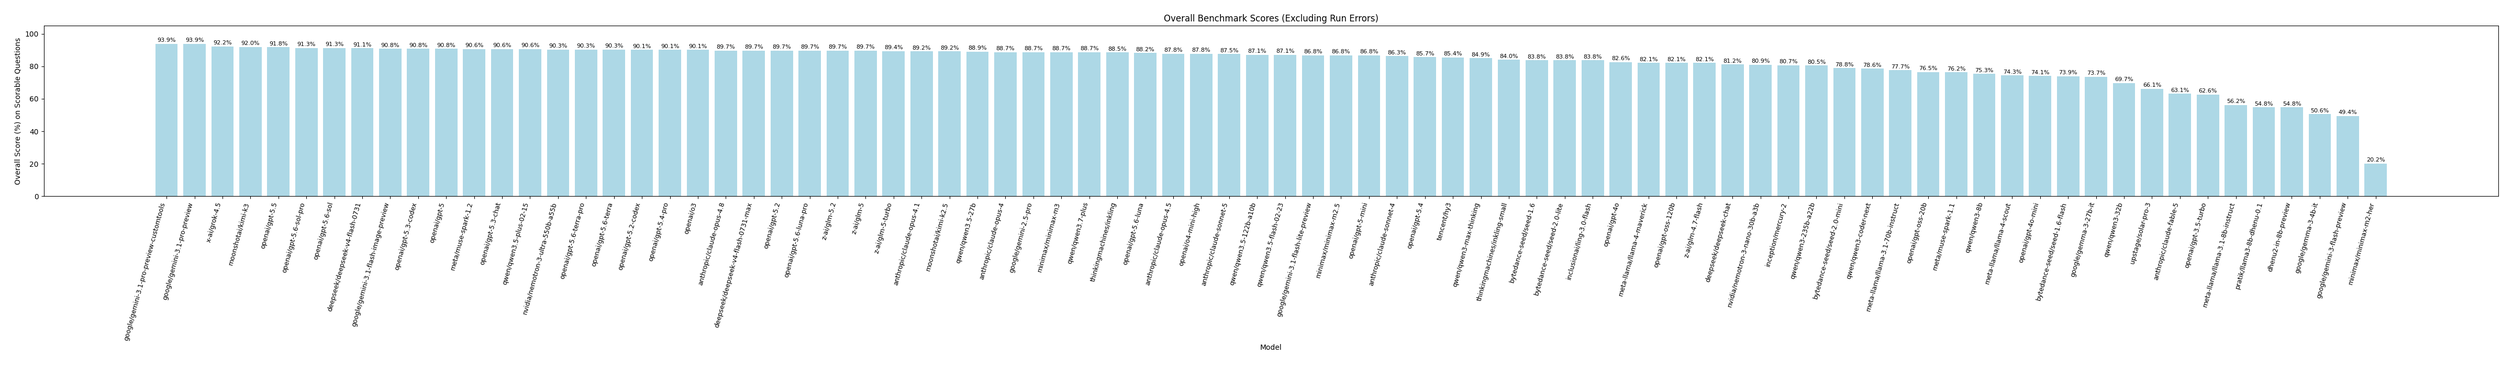
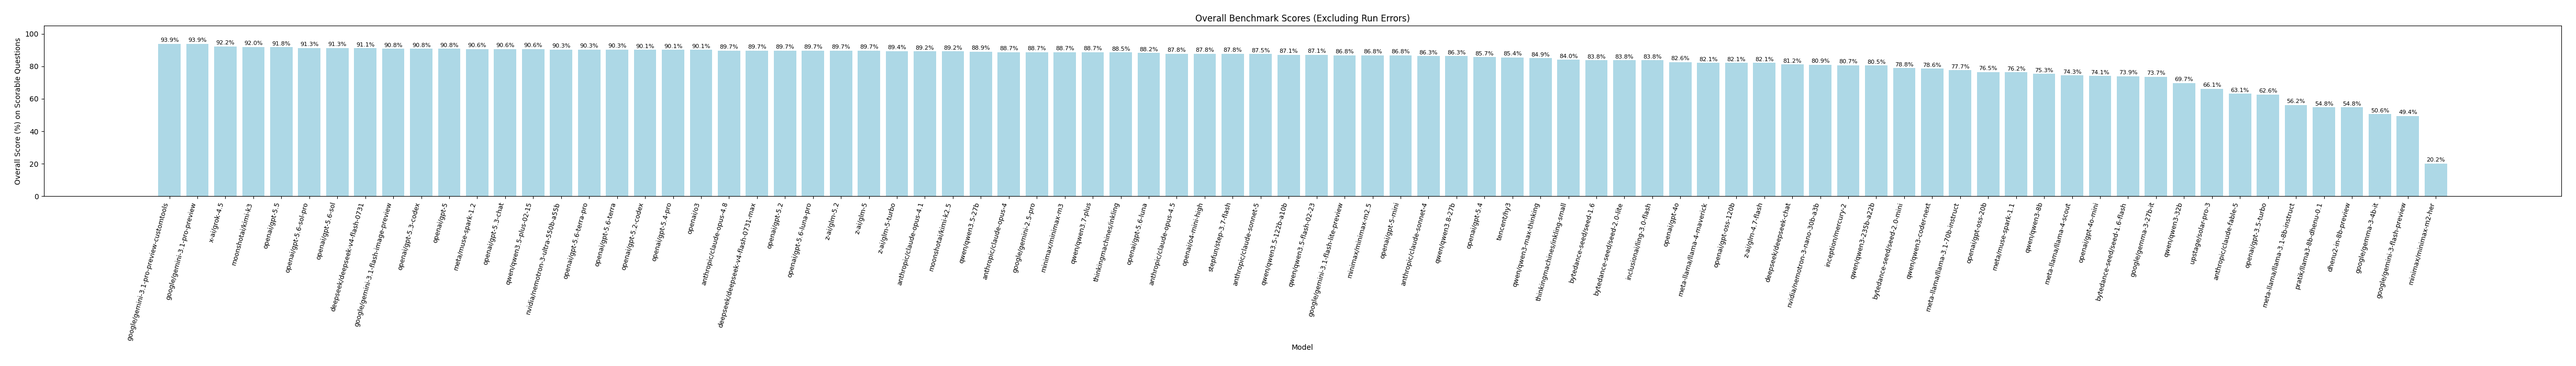
Add Step 3.7 Flash and Qwen3.8 27B benchmark results
Step 3.7 Flash scores 87.76% at FP8; Qwen3.8-27B scores 86.35% at BF16. Both are vision models.

Changed region(s): [[0.0625, 0.09, 0.9375, 0.87], [0.4688, 0.03, 0.5625, 0.06], [0.0625, 0.69, 0.0938, 0.72]]

diff --git a/config.py b/config.py
@@ -121,6 +121,28 @@ MODELS_TO_RUN = [
     # ========== LATEST SOTA (August 2026) ==========
 
     {
+        "id": "stepfun/step-3.7-flash",
+        "provider": "openai_compatible",
+        "api_key_env": "OPENROUTER_API_KEY",
+        "base_url": "https://openrouter.ai/api/v1",
+        "model_name_api": "stepfun/step-3.7-flash",
+        # Open-weight multimodal MoE (198B total / ~11B active). Vision.
+        # OpenRouter known quants are FP8 (StepFun/Novita); DeepInfra reports unknown.
+        "access": "open source",
+        "max_tokens": 4000,
+    },
+    {
+        "id": "qwen/qwen3.8-27b",
+        "provider": "openai_compatible",
+        "api_key_env": "OPENROUTER_API_KEY",
+        "base_url": "https://openrouter.ai/api/v1",
+        "model_name_api": "qwen/qwen3.8-27b",
+        # Open-weight dense multimodal (~27.8B). Vision.
+        # Routed to highest available precision (BF16 via AkashML).
+        "access": "open source",
+        "max_tokens": 4000,
+    },
+    {
         "id": "meta/muse-spark-1.2",
         "provider": "openai_compatible",
         "api_key_env": "OPENROUTER_API_KEY",

diff --git a/README.md b/README.md
@@ -21,39 +21,40 @@
 | x-ai/grok-4.5                             |         92.24% | Proprietary | 2026-07-09  |    $6.0000     |                   92.0% |           94.1% |         54.0% |      62.0% |      76.0% |               92.9% |           90.3% |          96.2% |                  88.6% | (392/425)
 | moonshotai/kimi-k3                        |         92.00% | Open Source | 2026-07-16  |    $15.0000    |                   96.0% |           92.7% |         62.0% |      66.0% |      80.0% |               91.8% |           90.3% |          92.5% |                  91.4% | (391/425)
 | openai/gpt-5.5                            |         91.76% | Proprietary | 2026-07-09  |    $30.0000    |                   92.0% |           91.2% |         58.0% |      60.0% |      74.0% |               95.3% |           91.9% |          95.0% |                  86.7% | (390/425)
-| openai/gpt-5.6-sol-pro                    |         91.29% | Proprietary | 2026-07-09  |    $30.0000    |                   96.0% |           92.7% |         66.0% |      62.0% |      70.0% |               94.1% |           87.1% |          93.8% |                  87.6% | (388/425)
-| openai/gpt-5.6-sol                        |         91.29% | Proprietary | 2026-07-09  |    $30.0000    |                   92.0% |           92.7% |         66.0% |      58.0% |      66.0% |               95.3% |           87.1% |          92.5% |                  88.6% | (388/425)
-| deepseek/deepseek-v4-flash-0731           |         91.06% | Open Source | 2026-08-01  |    $0.1800     |                   88.0% |           91.2% |      N/A      |    N/A     |    N/A     |               94.1% |           90.3% |          93.8% |                  87.6% | (387/425)
+| openai/gpt-5.6-sol-pro                    |         91.29% | Proprietary | 2026-07-09  |    $15.0000    |                   96.0% |           92.7% |         66.0% |      62.0% |      70.0% |               94.1% |           87.1% |          93.8% |                  87.6% | (388/425)
+| openai/gpt-5.6-sol                        |         91.29% | Proprietary | 2026-07-09  |    $15.0000    |                   92.0% |           92.7% |         66.0% |      58.0% |      66.0% |               95.3% |           87.1% |          92.5% |                  88.6% | (388/425)
+| deepseek/deepseek-v4-flash-0731           |         91.06% | Open Source | 2026-08-01  |    $0.2800     |                   88.0% |           91.2% |      N/A      |    N/A     |    N/A     |               94.1% |           90.3% |          93.8% |                  87.6% | (387/425)
 | google/gemini-3.1-flash-image-preview     |         90.82% | Proprietary | 2026-07-09  |    $3.0000     |                   92.0% |           89.7% |         68.0% |      64.0% |      90.0% |               92.9% |           90.3% |          92.5% |                  88.6% | (386/425)
 | openai/gpt-5.3-codex                      |         90.82% | Proprietary | 2026-07-09  |    $14.0000    |                   88.0% |           92.7% |         64.0% |      66.0% |      70.0% |               92.9% |           88.7% |          95.0% |                  86.7% | (386/425)
 | openai/gpt-5                              |         90.82% | Proprietary | 2026-07-10  |    $10.0000    |                   88.0% |           91.2% |         68.0% |      68.0% |      72.0% |               92.9% |           88.7% |          92.5% |                  89.5% | (386/425)
 | meta/muse-spark-1.2                       |         90.59% | Proprietary | 2026-08-06  |    $4.2500     |                   92.0% |           91.2% |         66.0% |      70.0% |      74.0% |               91.8% |           90.3% |          93.8% |                  86.7% | (385/425)
-| openai/gpt-5.3-chat                       |         90.59% | Proprietary | 2026-07-09  |    $14.0000    |                   88.0% |           92.7% |         64.0% |      56.0% |      56.0% |               94.1% |           88.7% |          91.2% |                  87.6% | (385/425)
+| openai/gpt-5.3-chat                       |         90.59% | Proprietary | 2026-07-09  |      N/A       |                   88.0% |           92.7% |         64.0% |      56.0% |      56.0% |               94.1% |           88.7% |          91.2% |                  87.6% | (385/425)
 | qwen/qwen3.5-plus-02-15                   |         90.59% | Open Source | 2026-07-09  |    $1.5600     |                   80.0% |           91.2% |         64.0% |      52.0% |      74.0% |               94.1% |           93.5% |          91.2% |                  87.6% | (385/425)
 | nvidia/nemotron-3-ultra-550b-a55b         |         90.35% | Open Source | 2026-07-09  |    $3.6000     |                   92.0% |           91.2% |      N/A      |    N/A     |    N/A     |               91.8% |           88.7% |          90.0% |                  89.5% | (384/425)
-| openai/gpt-5.6-terra-pro                  |         90.35% | Proprietary | 2026-07-09  |    $6.0000     |                   92.0% |           89.7% |         58.0% |      56.0% |      70.0% |               91.8% |           90.3% |          95.0% |                  85.7% | (384/425)
-| openai/gpt-5.6-terra                      |         90.35% | Proprietary | 2026-07-09  |    $6.0000     |                   84.0% |           94.1% |         56.0% |      62.0% |      68.0% |               92.9% |           91.9% |          92.5% |                  84.8% | (384/425)
+| openai/gpt-5.6-terra-pro                  |         90.35% | Proprietary | 2026-07-09  |    $12.0000    |                   92.0% |           89.7% |         58.0% |      56.0% |      70.0% |               91.8% |           90.3% |          95.0% |                  85.7% | (384/425)
+| openai/gpt-5.6-terra                      |         90.35% | Proprietary | 2026-07-09  |    $12.0000    |                   84.0% |           94.1% |         56.0% |      62.0% |      68.0% |               92.9% |           91.9% |          92.5% |                  84.8% | (384/425)
 | openai/gpt-5.2-codex                      |         90.12% | Proprietary | 2026-07-09  |    $14.0000    |                   92.0% |           92.7% |         62.0% |      52.0% |      68.0% |               92.9% |           87.1% |          92.5% |                  85.7% | (383/425)
 | openai/gpt-5.4-pro                        |         90.12% | Proprietary | 2026-07-10  |   $180.0000    |                   92.0% |           91.2% |         68.0% |      64.0% |      60.0% |               92.9% |           90.3% |          91.2% |                  85.7% | (383/425)
 | openai/o3                                 |         90.12% | Proprietary | 2026-07-09  |    $8.0000     |                   88.0% |           91.2% |         72.0% |      58.0% |      74.0% |               92.9% |           83.9% |          95.0% |                  87.6% | (383/425)
 | anthropic/claude-opus-4.8                 |         89.65% | Proprietary | 2026-07-09  |    $25.0000    |                   88.0% |           88.2% |         68.0% |      56.0% |      66.0% |               91.8% |           85.5% |          95.0% |                  87.6% | (381/425)
-| deepseek/deepseek-v4-flash-0731-max       |         89.65% | Open Source | 2026-08-01  |    $0.1800     |                   88.0% |           89.7% |      N/A      |    N/A     |    N/A     |               90.6% |           88.7% |          92.5% |                  87.6% | (381/425)
+| deepseek/deepseek-v4-flash-0731-max       |         89.65% | Open Source | 2026-08-01  |    $0.2800     |                   88.0% |           89.7% |      N/A      |    N/A     |    N/A     |               90.6% |           88.7% |          92.5% |                  87.6% | (381/425)
 | openai/gpt-5.2                            |         89.65% | Proprietary | 2026-07-09  |    $14.0000    |                   88.0% |           92.7% |         62.0% |      56.0% |      76.0% |               94.1% |           87.1% |          92.5% |                  83.8% | (381/425)
-| openai/gpt-5.6-luna-pro                   |         89.65% | Proprietary | 2026-07-09  |    $0.6000     |                   80.0% |           92.7% |         62.0% |      60.0% |      74.0% |               92.9% |           87.1% |          93.8% |                  85.7% | (381/425)
-| z-ai/glm-5.2                              |         89.65% | Open Source | 2026-07-10  |    $2.4200     |                   84.0% |           91.2% |      N/A      |    N/A     |    N/A     |               91.8% |           88.7% |          91.2% |                  87.6% | (381/425)
-| z-ai/glm-5                                |         89.65% | Open Source | 2026-07-10  |    $2.5500     |                   96.0% |           89.7% |      N/A      |    N/A     |    N/A     |               90.6% |           90.3% |          91.2% |                  85.7% | (381/425)
+| openai/gpt-5.6-luna-pro                   |         89.65% | Proprietary | 2026-07-09  |    $1.2000     |                   80.0% |           92.7% |         62.0% |      60.0% |      74.0% |               92.9% |           87.1% |          93.8% |                  85.7% | (381/425)
+| z-ai/glm-5.2                              |         89.65% | Open Source | 2026-07-10  |    $3.0360     |                   84.0% |           91.2% |      N/A      |    N/A     |    N/A     |               91.8% |           88.7% |          91.2% |                  87.6% | (381/425)
+| z-ai/glm-5                                |         89.65% | Open Source | 2026-07-10  |    $1.9200     |                   96.0% |           89.7% |      N/A      |    N/A     |    N/A     |               90.6% |           90.3% |          91.2% |                  85.7% | (381/425)
 | z-ai/glm-5-turbo                          |         89.41% | Proprietary | 2026-07-10  |    $4.0000     |                   84.0% |           92.7% |      N/A      |    N/A     |    N/A     |               90.6% |           88.7% |          91.2% |                  86.7% | (380/425)
 | anthropic/claude-opus-4.1                 |         89.18% | Proprietary | 2026-07-09  |    $75.0000    |                   84.0% |           88.2% |         54.0% |      56.0% |      46.0% |               91.8% |           91.9% |          91.2% |                  85.7% | (379/425)
-| moonshotai/kimi-k2.5                      |         89.18% | Open Source | 2026-07-09  |    $2.8500     |                   84.0% |           91.2% |         68.0% |      64.0% |      70.0% |               90.6% |           90.3% |          90.0% |                  86.7% | (379/425)
+| moonshotai/kimi-k2.5                      |         89.18% | Open Source | 2026-07-09  |    $2.2500     |                   84.0% |           91.2% |         68.0% |      64.0% |      70.0% |               90.6% |           90.3% |          90.0% |                  86.7% | (379/425)
 | qwen/qwen3.5-27b                          |         88.94% | Open Source | 2026-07-10  |    $1.5600     |                   80.0% |           91.2% |         60.0% |      44.0% |      36.0% |               89.4% |           88.7% |          91.2% |                  87.6% | (378/425)
 | anthropic/claude-opus-4                   |         88.71% | Proprietary | 2026-07-09  |    $75.0000    |                   84.0% |           89.7% |         48.0% |      56.0% |      48.0% |               89.4% |           90.3% |          91.2% |                  85.7% | (377/425)
 | google/gemini-2.5-pro                     |         88.71% | Proprietary | 2026-07-09  |    $10.0000    |                   84.0% |           91.2% |         60.0% |      68.0% |      80.0% |               87.1% |           88.7% |          91.2% |                  87.6% | (377/425)
 | minimax/minimax-m3                        |         88.71% | Open Source | 2026-07-10  |    $1.2000     |                   88.0% |           89.7% |         56.0% |      52.0% |      48.0% |               89.4% |           87.1% |          93.8% |                  84.8% | (377/425)
 | qwen/qwen3.7-plus                         |         88.71% | Open Source | 2026-07-09  |    $1.2800     |                   76.0% |           92.7% |         68.0% |      56.0% |      66.0% |               90.6% |           88.7% |          88.8% |                  87.6% | (377/425)
 | thinkingmachines/inkling                  |         88.47% | Open Source | 2026-07-17  |    $4.0500     |                   92.0% |           89.7% |         46.0% |      54.0% |      42.0% |               88.2% |           90.3% |          90.0% |                  84.8% | (376/425)
-| openai/gpt-5.6-luna                       |         88.24% | Proprietary | 2026-07-09  |    $0.6000     |                   76.0% |           89.7% |         56.0% |      60.0% |      66.0% |               90.6% |           88.7% |          91.2% |                  85.7% | (375/425)
+| openai/gpt-5.6-luna                       |         88.24% | Proprietary | 2026-07-09  |    $1.2000     |                   76.0% |           89.7% |         56.0% |      60.0% |      66.0% |               90.6% |           88.7% |          91.2% |                  85.7% | (375/425)
 | anthropic/claude-opus-4.5                 |         87.76% | Proprietary | 2026-07-09  |    $25.0000    |                   80.0% |           89.7% |         54.0% |      66.0% |      64.0% |               89.4% |           85.5% |          92.5% |                  84.8% | (373/425)
 | openai/o4-mini-high                       |         87.76% | Proprietary | 2026-07-10  |    $4.4000     |                   68.0% |           91.2% |         66.0% |      58.0% |      54.0% |               90.6% |           87.1% |          92.5% |                  84.8% | (373/425)
+| stepfun/step-3.7-flash                    |         87.76% | Open Source | 2026-08-20  |    $1.1500     |                   76.0% |           91.2% |         70.0% |      52.0% |      68.0% |               88.2% |           88.7% |          88.8% |                  86.7% | (373/425)
 | anthropic/claude-sonnet-5                 |         87.53% | Proprietary | 2026-07-09  |    $10.0000    |                   76.0% |           88.2% |         54.0% |      62.0% |      66.0% |               90.6% |           87.1% |          91.2% |                  84.8% | (372/425)
 | qwen/qwen3.5-122b-a10b                    |         87.06% | Open Source | 2026-07-09  |    $2.0800     |                   72.0% |           88.2% |         58.0% |      56.0% |      64.0% |               88.2% |           87.1% |          91.2% |                  85.7% | (370/425)
 | qwen/qwen3.5-flash-02-23                  |         87.06% | Open Source | 2026-07-09  |    $0.2600     |                   72.0% |           88.2% |         52.0% |      44.0% |      36.0% |               87.1% |           88.7% |          92.5% |                  84.8% | (370/425)
@@ -61,13 +62,14 @@
 | minimax/minimax-m2.5                      |         86.82% | Open Source | 2026-07-10  |    $0.9000     |                   68.0% |           86.8% |      N/A      |    N/A     |    N/A     |               90.6% |           87.1% |          95.0% |                  81.9% | (369/425)
 | openai/gpt-5-mini                         |         86.82% | Proprietary | 2026-07-10  |    $2.0000     |                   60.0% |           91.2% |         68.0% |      44.0% |      58.0% |               90.6% |           88.7% |          90.0% |                  83.8% | (369/425)
 | anthropic/claude-sonnet-4                 |         86.35% | Proprietary | 2026-07-09  |    $15.0000    |                   80.0% |           86.8% |         44.0% |      54.0% |      28.0% |               88.2% |           88.7% |          87.5% |                  83.8% | (367/425)
+| qwen/qwen3.8-27b                          |         86.35% | Open Source | 2026-08-20  |    $3.2000     |                   60.0% |           88.2% |         52.0% |      46.0% |      48.0% |               87.1% |           87.1% |          91.2% |                  86.7% | (367/425)
 | openai/gpt-5.4                            |         85.65% | Proprietary | 2026-07-09  |    $15.0000    |                   76.0% |           86.8% |         60.0% |      62.0% |      52.0% |               87.1% |           83.9% |          87.5% |                  85.7% | (364/425)
 | tencent/hy3                               |         85.41% | Open Source | 2026-07-10  |    $0.5280     |                   64.0% |           88.2% |      N/A      |    N/A     |    N/A     |               88.2% |           83.9% |          91.2% |                  82.9% | (363/425)
 | qwen/qwen3-max-thinking                   |         84.94% | Open Source | 2026-07-09  |    $3.9000     |                   60.0% |           86.8% |      N/A      |    N/A     |    N/A     |               83.5% |           83.9% |          87.5% |                  89.5% | (361/425)
 | thinkingmachines/inkling-small            |         84.00% | Open Source | 2026-07-31  |    $1.2000     |                   80.0% |           88.2% |         38.0% |      50.0% |      34.0% |               84.7% |           83.9% |          85.0% |                  81.0% | (357/425)
 | bytedance-seed/seed-1.6                   |         83.76% | Proprietary | 2026-07-09  |    $2.0000     |                   68.0% |           86.8% |         68.0% |      56.0% |      68.0% |               82.3% |           83.9% |          85.0% |                  85.7% | (356/425)
 | bytedance-seed/seed-2.0-lite              |         83.76% | Proprietary | 2026-07-09  |    $2.0000     |                   68.0% |           83.8% |         50.0% |      58.0% |      62.0% |               83.5% |           83.9% |          90.0% |                  82.9% | (356/425)
-| inclusionai/ling-3.0-flash                |         83.76% | Open Source | 2026-08-06  |    $0.2200     |                   60.0% |           88.2% |      N/A      |    N/A     |    N/A     |               84.7% |           83.9% |          86.2% |                  83.8% | (356/425)
+| inclusionai/ling-3.0-flash                |         83.76% | Open Source | 2026-08-06  |    $0.0630     |                   60.0% |           88.2% |      N/A      |    N/A     |    N/A     |               84.7% |           83.9% |          86.2% |                  83.8% | (356/425)
 | openai/gpt-4o                             |         82.59% | Proprietary | 2026-07-09  |    $10.0000    |                   80.0% |           82.3% |         50.0% |      40.0% |      32.0% |               80.0% |           87.1% |          87.5% |                  79.0% | (351/425)
 | meta-llama/llama-4-maverick               |         82.12% | Open Source | 2026-07-09  |    $0.8000     |                   60.0% |           82.3% |         50.0% |      56.0% |      36.0% |               81.2% |           87.1% |          81.2% |                  85.7% | (349/425)
 | openai/gpt-oss-120b                       |         82.12% | Open Source | 2026-07-09  |    $0.1700     |                   52.0% |           86.8% |      N/A      |    N/A     |    N/A     |               82.3% |           87.1% |          85.0% |                  81.0% | (349/425)
